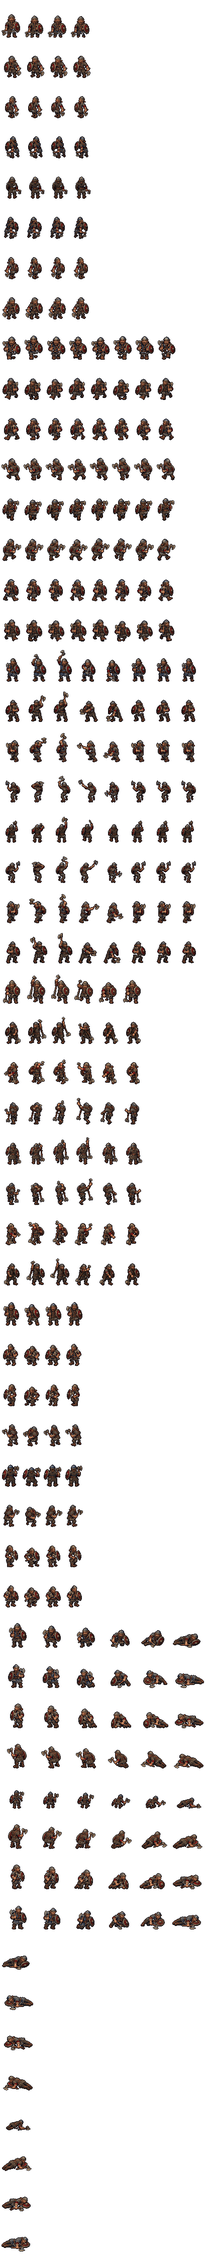
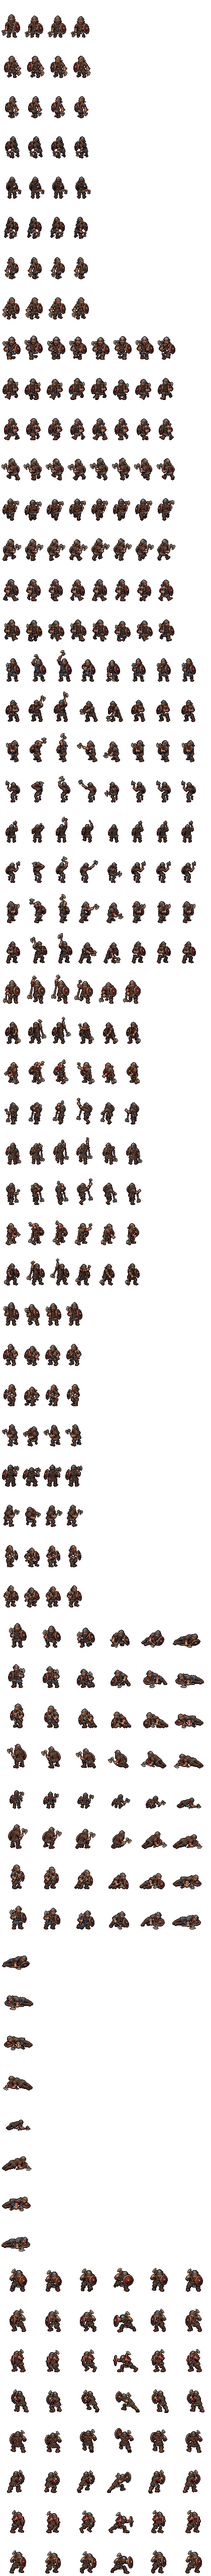
The trooper's Push and the dragger's Net and Hook cut (art-wanted 103, 106; ART-167, ART-168)
tools/pike-wall-sheet.py now takes a sheet's pages as a list: trooper_p2
gains `push` 6 (ART-167; his tall 42, any-colour crown: his helmet is
steel) and dragger_p2 `net` 6 and `hook` 6 (ART-168), release 3 each,
all eight facings, SW W NW mirrored. tools/trooper-fight-sheet.py says to
run it after.

The reader, for these pages: a small light detached piece (at most 32x64
page px) is a printed label, dropped (ART-168's S Hook kept an "OK" and a
"4"); a frame whose crown-to-boots runs 15% past its row's median stands
on its crown + the median (S Net 4's net thrown below his boots; S Hook 3
and N Net 4 a pike end below them). S Hook 3's pike tip clips at the
cell's foot.

`net` and `hook` are marked held: js/show.js passes them by (the show
throws no net); js/sprites.js S.anim still serves them, so the seat
nets-1125's F.throwNet and F.hook play them by those names unchanged.

Eyes: eyes-trooper-push-1125b, eyes-dragger-net-hook-1125b (the gallery).
Stamps rebuilt. (cutter-1125b)

His words: "dragger and dwarf push are in, hoping the lady lands before
the art dept ceiling"

diff --git a/deep16/data/sprites.js b/deep16/data/sprites.js
@@ -4558,7 +4558,7 @@
 "source": "drawn by the art desk (HALFWAY-INN-DORAN-COMBAT, 11-05: art-wanted section 35), cut by tools/doran-sheet.py; SW W NW mirrored -- the idle from the art desk's five-view axe idle page (11-06), the walk from its axe walk page (11-10); every fight he is in (deep16/data/foes.js doran)"
 },
 "dragger_p2": {
-"image": "art/dragger_p2.png?v=fc3a91ef3e",
+"image": "art/dragger_p2.png?v=275f24ecc5",
 "fw": 102,
 "fh": 96,
 "ax": 51,
@@ -4649,6 +4649,28 @@
 "frames": 6,
 "fps": 10,
 "release": 3
+},
+"net": {
+"y": 6912,
+"fw": 114,
+"fh": 96,
+"ax": 57,
+"ay": 76,
+"frames": 6,
+"fps": 10,
+"release": 3,
+"held": true
+},
+"hook": {
+"y": 7680,
+"fw": 102,
+"fh": 96,
+"ax": 51,
+"ay": 76,
+"frames": 6,
+"fps": 10,
+"release": 3,
+"held": true
 }
 },
 "name": "Dragger",
@@ -4661,7 +4683,7 @@
 "flinch: NE raises the pike steeply off the idle's angle (the art desk's own \"check the pike angle at the return to Idle\")",
 "prone: the last Fall cel held"
 ],
-"source": "drawn by the art desk (ART-159, 11-24: art-wanted section 95, the Dominion's dragger with the pike in gladiator harness in five views, the thrust and the Pike Rank over the mannequin's human guides), cut by tools/dragger-sheet.py over tools/vivian-sheet.py; SW W NW mirrored -- the pike wall's rows (keepback, shove) drawn by the art desk (ART-166, 11-25: art-wanted 102, the Keep Back from the Pike Rank hold and the shaft's Shove), added by tools/pike-wall-sheet.py"
+"source": "drawn by the art desk (ART-159, 11-24: art-wanted section 95, the Dominion's dragger with the pike in gladiator harness in five views, the thrust and the Pike Rank over the mannequin's human guides), cut by tools/dragger-sheet.py over tools/vivian-sheet.py; SW W NW mirrored -- rows added by tools/pike-wall-sheet.py (keepback, shove, net, hook), drawn by the art desk (ART-166, ART-168, 11-25)"
 },
 "drider_p1": {
 "image": "art/drider_p1.png?v=a0acd18d15",
@@ -9173,7 +9195,7 @@
 "hurt: N falls away from the viewer, the soles nearest the camera (the art desk's own note)",
 "prone: the Fall 6 crop held"
 ],
-"source": "drawn by the art desk (ART-158, 11-24: art-wanted section 94, the Line Guard pikeman, clean-shaven, in five views, the thrust and the Pike Rank over the mannequin's human guides), cut by tools/guard-soldiering-sheet.py over tools/dominion-sheet.py's reader and tools/vivian-sheet.py; SW W NW mirrored -- the pike wall's rows (keepback, shove) drawn by the art desk (ART-166, 11-25: art-wanted 102, the Keep Back from the Pike Rank hold and the shaft's Shove), added by tools/pike-wall-sheet.py"
+"source": "drawn by the art desk (ART-158, 11-24: art-wanted section 94, the Line Guard pikeman, clean-shaven, in five views, the thrust and the Pike Rank over the mannequin's human guides), cut by tools/guard-soldiering-sheet.py over tools/dominion-sheet.py's reader and tools/vivian-sheet.py; SW W NW mirrored -- rows added by tools/pike-wall-sheet.py (keepback, shove), drawn by the art desk (ART-166, 11-25)"
 },
 "guardwoman_p1": {
 "image": "art/guardwoman_p1.png?v=4f92d49145",
@@ -35783,7 +35805,7 @@ true
 "source": "drawn by the art desk (ART-142-GARRISON-PORTRAITS-AND-TOWN, 11-12: art-wanted section 55 block 4, the garrison trooper's town figure in five views), cut by tools/trooper-town-sheet.py over tools/vivian-sheet.py; SW W NW mirrored"
 },
 "trooper_p2": {
-"image": "art/trooper_p2.png?v=870b92b0aa",
+"image": "art/trooper_p2.png?v=239efcbd94",
 "fw": 46,
 "fh": 80,
 "ax": 23,
@@ -35854,6 +35876,16 @@ true
 "ay": 74,
 "frames": 1,
 "fps": 1
+},
+"push": {
+"y": 4480,
+"fw": 70,
+"fh": 80,
+"ax": 35,
+"ay": 74,
+"frames": 6,
+"fps": 10,
+"release": 3
 }
 },
 "name": "Trooper",
@@ -35861,7 +35893,7 @@ true
 "throw: some wrist loops pass behind the arm or belt, and the release hand overlaps the small axe in projection (the art desk's own note)",
 "attack: the mannequin's guard holds the axe higher than the low combat Idle -- the Idle to Attack and Attack to Idle joins (the art desk's own note); passing steps close in the rear walks"
 ],
-"source": "drawn by the art desk (ART-142-TROOPER-COMBAT, 11-12: art-wanted section 55 block 2, the garrison trooper with battleaxe and shield in five views, the Attack and Throw over the mannequin's guides), cut by tools/trooper-fight-sheet.py over tools/vivian-sheet.py; SW W NW mirrored"
+"source": "drawn by the art desk (ART-142-TROOPER-COMBAT, 11-12: art-wanted section 55 block 2, the garrison trooper with battleaxe and shield in five views, the Attack and Throw over the mannequin's guides), cut by tools/trooper-fight-sheet.py over tools/vivian-sheet.py; SW W NW mirrored -- rows added by tools/pike-wall-sheet.py (push), drawn by the art desk (ART-167, 11-25)"
 },
 "trooperpike_p2": {
 "image": "art/trooperpike_p2.png?v=6eda2f2610",

diff --git a/js/eyes.js b/js/eyes.js
@@ -452,6 +452,14 @@
       obj: 'In the gallery, step the two pikemen\'s new KEEPBACK and SHOVE rows: the point out, the shaft driven crosswise. Do they read?',
       url: 'deep16/?gallery&shelf=creatures&rows=dragger_p2,guardpike_p2&beside&lvl=3&fresh=1125pw',
       look: 'NEW, the art desk\'s ART-166 (art-wanted 102, your "outbox the Keep Back and any other rows we need for those two"): two rows on each pikeman\'s own sheet, all eight facings (SW, W, NW the mirrors). KEEPBACK (6, from the Pike Rank hold: the point out high, then low on frame 4, back to the hold) plays when his KEEP BACK reaction fires in a pike wall. SHOVE (6: the shaft turned crosswise, a step on 3, driven on 4) plays for any Shove he makes -- the dragger\'s patrol drill is shove, grapple and drag. Left the Dominion\'s dragger, right Dunmore\'s clean-shaven Line Guard pikeman, each beside his own idle at one height. The art desk\'s own notes: S Keep Back foreshortens the shaft, and the N step is subtle. Judge: do the point out and the crosswise shove read, and is each the same man as his idle?' },
+    'eyes-trooper-push-1125b': { pri: 2, group: G2, title: 'THE GARRISON TROOPER\'S SHIELD WALL PUSH: the red shield driven, the axe cocked, all eight facings (11-25, later)', pt: 'the story build lane, 2026-11-25 (the cutter, cutter-1125b; tools/pike-wall-sheet.py; deep16/art/trooper_p2; js/features.js THE PUSH)',
+      obj: 'In the gallery, step the garrison trooper\'s new PUSH row: the red shield driven on frame 4, the axe held cocked. Does it read?',
+      url: 'deep16/?gallery&shelf=creatures&rows=trooper_p2&lvl=3&fresh=1125tp',
+      look: 'NEW, the art desk\'s ART-167 (art-wanted 103, your "52 - yes"): PUSH 6 on the dwarven garrison trooper\'s own sheet, all eight facings (SW, W, NW the mirrors) -- shields set, a coil, the drive off the rear leg, the SHOVE on frame 4 (the head tucked behind the rim), recover, shields set. It plays when his shield wall pushes, for the Trooper and the File Leader both, as Halldor\'s does; the wall\'s move gives the step. Each page sized so frame 1 stands his idle\'s 42. Judge: does the shove read beside his idle, and is it the same dwarf?' },
+    'eyes-dragger-net-hook-1125b': { pri: 2, group: G2, title: 'THE DRAGGER\'S NET AND HOOK: the net thrown and the pike\'s hook pulled, all eight facings (11-25, later)', pt: 'the story build lane, 2026-11-25 (the cutter, cutter-1125b; tools/pike-wall-sheet.py; deep16/art/dragger_p2; js/features.js F.throwNet, F.hook -- the seat nets-1125)',
+      obj: 'In the gallery, step the dragger\'s new NET and HOOK rows: the net flung on frame 4, the hook pulled. Do they read?',
+      url: 'deep16/?gallery&shelf=creatures&rows=dragger_p2&lvl=3&fresh=1125nh',
+      look: 'NEW, the art desk\'s ART-168 (art-wanted 106): two rows on the Dominion dragger\'s own sheet, all eight facings (SW, W, NW the mirrors). NET (6: the net gathered at his hip, swung, flung open on frame 4, the pike kept upright in the other hand) plays when he throws his net; HOOK (6: the pike\'s hook set behind a leg and pulled on frame 4) plays when he hooks a foe down. Neither shows in a fight on its own yet: the nets seat\'s rules throw and hook. In S the net flies toward you, below his boots, and the hook\'s pike runs past them (a tip clipped at the cell\'s foot on frame 3). Judge: do the throw and the pull read, and is he the same man as his idle?' },
     'eyes-dominion-portraits-1125': { pri: 2, group: G2, title: 'THE SERGEANT\'S AND THE MENDER\'S TALKING PORTRAITS: the idles you approved, ART-163 and ART-164 (11-25)', pt: 'the story build lane, 2026-11-25 (the cutter, cutter-1125; tools/portrait-sheet.py; deep16/art/pt_dmsergeant, pt_dmmender)',
       obj: 'Look at the sergeant\'s and the mender\'s talking portraits, six frames each. Are these the faces you approved?',
       url: 'deep16/?portraits&who=dmsergeant,dmmender&lvl=3&fresh=1125pt',

diff --git a/deep16/index.html b/deep16/index.html
@@ -113,7 +113,7 @@
 <script src="js/art.js?v=e1ce4cf012"></script>
 <script src="data/cavern.js?v=647c1a184a"></script>
 <script src="data/maps.js?v=d33fd7d069"></script>
-<script src="data/sprites.js?v=1f4806df87"></script>
+<script src="data/sprites.js?v=6beee89207"></script>
 <script src="js/sprites.js?v=6d0752045d"></script>
 <script src="js/save.js?v=afbd9d9582"></script>
 <script src="data/spells.js?v=5245b60266"></script>
@@ -230,7 +230,7 @@
 <script src="js/parade.js?v=d6c6aba1dc"></script>
 <script src="js/ripplesfight.js?v=6b8c16eeac"></script>
 <script src="js/blackegg.js?v=aecca221cc"></script>
-<script src="../js/eyes.js?v=0d057fdd6b"></script>
+<script src="../js/eyes.js?v=ccf32e36da"></script>
 <script src="../js/tour.js?v=bd4c5f3949"></script>
 <script src="js/onegallery.js?v=b8317cb4a0"></script>
 <script src="js/situations16.js?v=cc81728a85"></script>

diff --git a/tools/pike-wall-sheet.py b/tools/pike-wall-sheet.py
@@ -31,35 +31,70 @@ _sp = importlib.util.spec_from_file_location('mender_sheet', os.path.join(ROOT, 
 MS = importlib.util.module_from_spec(_sp); _sp.loader.exec_module(MS)
 sys.argv = _old
 DG, VS = MS.DG, MS.VS
-SRC, BATCH = 'dragger', '2026-11-25-ART-166-PIKE-WALL'
 FACE = {'S': 0, 'SE': 7, 'E': 6, 'NE': 5, 'N': 4}
 MIRROR = {1: 7, 2: 6, 3: 5}
-ADD = [('keepback', 10, 3), ('shove', 10, 3)]      # (row, fps, release)
-TALL = 52        # (crown row to boots: both sheets' TALL, tools/dragger-sheet.py and tools/guard-soldiering-sheet.py)
-FIG = {'dragger_p2': dict(page='DRAGGER', avoid=['fire'], bgtol=20, crown=20, steel=True),
+ROWS = {'keepback': (10, 3), 'shove': (10, 3), 'net': (10, 3), 'hook': (10, 3), 'push': (10, 3)}   # (row: fps, release -- each page's printed 4)
+PIKE = ('dragger', '2026-11-25-ART-166-PIKE-WALL')
+HELD = {'net', 'hook'}   # (marked `held`: js/show.js SH.wanted passes them by -- the show throws no net; js/sprites.js S.anim still serves them, so the
+                         #  seat nets-1125's F.throwNet and F.hook play them where they land. A cutter may drop this once a show stages the net)
+FIG = {'dragger_p2': dict(avoid=['fire'], bgtol=20, crown=20, steel=True, tall=52, pages=[
+           PIKE + ('sources/ART-166_DRAGGER_HEAD-*_%s.png', ['keepback', 'shove']),
+           ('dragger', '2026-11-25-ART-168-NET-HOOK', 'source/ART-168-H0*-P01-%s-source.png', ['net', 'hook'])]),   # (ART-168, art-wanted 106: js/features.js
+           # F.throwNet plays a sheet's `net`, F.hook's shove its `hook` -- the seat nets-1125's code)
            # (tools/dragger-sheet.py's: his crown the first run CROWN wide that is not steel -- a pike's head is steel. 20, not his 30: ART-166 draws him at
            #  ~0.25 game px a page px against ART-159's ~0.1, so his curls' top runs narrower; at 12 the raised pike's wooden shaft in N read as his crown)
-       'guardpike_p2': dict(page='LINE-GUARD-PIKEMAN', avoid=['red', 'fire', 'violet'], bgtol=20, crown=30, steel=False)}
+       'guardpike_p2': dict(avoid=['red', 'fire', 'violet'], bgtol=20, crown=30, steel=False, tall=52, pages=[
+           PIKE + ('sources/ART-166_LINE-GUARD-PIKEMAN_HEAD-*_%s.png', ['keepback', 'shove'])]),
            # (tools/guard-soldiering-sheet.py's: his crown the first run CROWN wide of any colour -- his kettle hat is steel, which the steel test passes
            #  over (his SE read at the brim and stood 2 px tall); 30 page px is wider than a pike's head or shaft here)
+       'trooper_p2': dict(avoid=['fire'], bgtol=30, crown=30, steel=False, tall=42, pages=[
+           ('trooper', '2026-11-25-ART-167-PUSH', 'source/ART-167-HEAD-*-PAGE-1-%s-PUSH.png', ['push'])])}
+           # (ART-167, art-wanted 103: tools/trooper-fight-sheet.py's tall 42 and avoid; his helmet steel, so any colour; js/features.js THE PUSH plays it)
+TALL = None      # (each sheet's own: crown row to boots, as its tool cut its idle)
 
 
 def read(fig):
-    """{(view, row): [(page, mask, box, ground, crown-to-boots), x6]}"""
+    """{(view, row): [(page, mask, box, ground, crown-to-boots), x6]}, {(view, row): k} -- one scale a page: frame 1 of its tallest row at the sheet's tall"""
     F = FIG[fig]; DG.BGTOL = F['bgtol']; DG.CROWN = F['crown']
-    out, notes = {}, {}
-    for v in FACE:
-        fn = glob.glob(os.path.join(VS.pix.SRC, SRC, BATCH, 'sources', 'ART-166_%s_HEAD-*_%s.png' % (F['page'], v)))
-        assert len(fn) == 1, (fig, v, fn)
-        a, got, nt = MS.read_page(fn[0], 12)
-        notes[os.path.basename(fn[0])] = nt
-        for i in range(12):
-            d, bx = got[i]; x0, y0, x1, y1 = bx
-            sa, sm = a[y0:y1, x0:x1], d[y0:y1, x0:x1]
-            g = y0 + DG.ground(sa, sm) + 1
-            hc = DG.head(sa, sm)[0] if F['steel'] else anycrown(sm, F['crown'])
-            out.setdefault((v, ADD[i // 6][0]), []).append((a, d, bx, g, g - y0 - hc))
-    return out, notes
+    out, notes, ks = {}, {}, {}
+    for src, batch, pat, rows in F['pages']:
+        for v in FACE:
+            fn = glob.glob(os.path.join(VS.pix.SRC, src, batch, pat % v))
+            assert len(fn) == 1, (fig, v, fn)
+            a, got, nt = MS.read_page(fn[0], 6 * len(rows))
+            notes[os.path.basename(fn[0])] = nt
+            for i in range(6 * len(rows)):
+                d, bx = unlabel(a, got[i][0], notes[os.path.basename(fn[0])], i)
+                x0, y0, x1, y1 = bx
+                sa, sm = a[y0:y1, x0:x1], d[y0:y1, x0:x1]
+                g = y0 + DG.ground(sa, sm) + 1
+                hc = DG.head(sa, sm)[0] if F['steel'] else anycrown(sm, F['crown'])
+                out.setdefault((v, rows[i // 6]), []).append((a, d, bx, g, g - y0 - hc))
+            for r in rows:                     # (a thing below his feet -- ART-168's S Net 4, the open net thrown toward us, the figure drawn higher for it:
+                fs = out[(v, r)]; med = float(np.median([f[4] for f in fs]))   #  a frame past its row's median crown-to-boots by 15% stands on its crown + the median)
+                for j, (a, d, bx, g, h) in enumerate(fs):
+                    if h > 1.15 * med:
+                        fs[j] = (a, d, bx, int(round(g - h + med)), int(round(med)))
+                        notes[os.path.basename(fn[0])].append('re-footed: %s %d, %d page px up' % (r, j + 1, int(round(h - med))))
+            k = F['tall'] / float(max(out[(v, r)][0][4] for r in rows))
+            for r in rows:
+                ks[(v, r)] = k
+    return out, notes, ks
+
+
+def unlabel(a, d, notes, i):
+    """(mask, box): a frame with its small light detached pieces dropped -- ART-168's printed "OK" and frame numbers pass mender-sheet's text test (its S
+    Hook kept an "OK" and a "4"); a piece at most 32 x 64 page px, at least 85 at its darkest channel on the mean (the "OK" with its dark rim reads 92, a figure 50 to 60), never the frame's biggest"""
+    lab, n = ndimage.label(d, structure=np.ones((3, 3)))
+    if n > 1:
+        big = 1 + int(np.argmax(ndimage.sum(d, lab, range(1, n + 1))))
+        for j, sl in enumerate(ndimage.find_objects(lab), 1):
+            pc = lab[sl] == j
+            if j != big and sl[0].stop - sl[0].start <= 32 and sl[1].stop - sl[1].start <= 64 and a[sl][pc].min(1).mean() >= 85:
+                d = d.copy(); d[sl] &= ~pc
+                notes.append('label dropped: frame %d, %d px at %s' % (i + 1, int(pc.sum()), (sl[1].start, sl[0].start, sl[1].stop, sl[0].stop)))
+    ys, xs = np.where(d)
+    return d, (int(xs.min()), int(ys.min()), int(xs.max()) + 1, int(ys.max()) + 1)
 
 
 def anycrown(m, w):
@@ -96,8 +131,9 @@ def cut1x(a, d, bx, g, k, F):
     return o, cx, int(round((g - w[1] - sl[0].start) * k)) + 1
 
 
-def add_rows(fig, R, check=False):
+def add_rows(fig, R, K, check=False):
     F = FIG[fig]
+    ADD = [(r,) + ROWS[r] for pg in F['pages'] for r in pg[3]]
     ART = os.path.join(ROOT, 'deep16', 'art')
     base = np.asarray(Image.open(os.path.join(ART, fig + '.png')).convert('RGBA')).copy()
     meta = json.load(open(os.path.join(ART, fig + '.json')))
@@ -111,7 +147,7 @@ def add_rows(fig, R, check=False):
         cells = {}
         for v, f in FACE.items():
             fs = R[(v, row)]
-            k = TALL / float(max(R[(v, r)][0][4] for r, _, _ in ADD))   # (one page, one scale: the taller of the two rows' frame 1 -- the pikeman's E Keep Back
+            k = K[(v, row)]                # (read(): one page, one scale -- the taller of its rows' frame 1 at the sheet's tall: the pikeman's E Keep Back
                                            #  read its crown 20 page px low, 5 px over his idle at 1x); frame 1 stands his sheet's TALL, crown row to boots -- each sheet cut its idle to it. Not idle_height():
                                            #  in N (the dragger) and NE and N (the pikeman) the idle's pike head stands above him, read at 1x as his crown)
             cells[f] = [cut1x(a, d, bx, g, k, F) for a, d, bx, g, h in fs]
@@ -132,6 +168,8 @@ def add_rows(fig, R, check=False):
                 cell = blk[f * FH + max(0, dy):f * FH + max(0, dy) + hh, i * fw + max(0, dx):i * fw + max(0, dx) + ww]
                 on = sub[..., 3] > 0; cell[on] = sub[on]
         meta['anims'][row] = {'y': int(y0), 'fw': fw, 'fh': FH, 'ax': ax, 'ay': AY, 'frames': n, 'fps': fps, 'release': rel}
+        if row in HELD:
+            meta['anims'][row]['held'] = True
         if clip:
             print('  %s %s clipped top or bottom at the cell: %s' % (fig, row, ', '.join(clip)))
         blocks.append((row, blk)); y0 += 8 * FH
@@ -139,9 +177,9 @@ def add_rows(fig, R, check=False):
     sheet = np.zeros((y0, W, 4), np.uint8); sheet[:base.shape[0], :base.shape[1]] = base; y = base.shape[0]
     for _, b in blocks:
         sheet[y:y + b.shape[0], :b.shape[1]] = b; y += b.shape[0]
-    meta['source'] = meta.get('source', '').split(' -- the pike wall\'s rows')[0] + (
-        ' -- the pike wall\'s rows (keepback, shove) drawn by the art desk (ART-166, 11-25: art-wanted 102, the Keep Back from the Pike Rank hold and the shaft\'s '
-        'Shove), added by tools/pike-wall-sheet.py')
+    meta['source'] = meta.get('source', '').split(' -- the pike wall\'s rows')[0].split(' -- rows added by tools/pike-wall-sheet.py')[0] + (
+        ' -- rows added by tools/pike-wall-sheet.py (%s), drawn by the art desk (%s, 11-25)' % (', '.join(r for r, _, _ in ADD),
+        ', '.join('ART-' + pg[1].split('-ART-')[1].split('-')[0] for pg in F['pages'])))
     Image.fromarray(sheet, 'RGBA').save(os.path.join(ART, fig + '.png'), optimize=True)
     json.dump(meta, open(os.path.join(ART, fig + '.json'), 'w'), indent=1)
     print('  %s: %dx%d, + %s; scales %s' % (fig, sheet.shape[1], sheet.shape[0], ', '.join('%s %d@%dpx' % (r, meta['anims'][r]['frames'], meta['anims'][r]['fw']) for r, _, _ in ADD), '; '.join(notes)))
@@ -157,7 +195,7 @@ def add_rows(fig, R, check=False):
 
 if __name__ == '__main__':
     for fig in FIG:
-        R, NT = read(fig)
+        R, NT, K = read(fig)
         if 'frames' in sys.argv:
             for (v, rw), fs in sorted(R.items()):
                 for i, (a, d, bx, g, h) in enumerate(fs):
@@ -165,4 +203,4 @@ if __name__ == '__main__':
             for fn, nt in sorted(NT.items()):
                 print(fn, '|', '; '.join(nt)[:400])
             continue
-        add_rows(fig, R, 'check' in sys.argv)
+        add_rows(fig, R, K, 'check' in sys.argv)

diff --git a/tools/trooper-fight-sheet.py b/tools/trooper-fight-sheet.py
@@ -3,6 +3,8 @@
     python tools/trooper-fight-sheet.py            (writes deep16/art/trooper_p2.png/.json)
     python tools/trooper-fight-sheet.py check      (also the review sheet: every row of every facing at 3x)
 
+    THEN python tools/pike-wall-sheet.py: this writes trooper_p2 whole, and the shield wall's `push` (ART-167, 11-25, art-wanted 103) is added by that tool.
+
 Asked in art-wanted section 55, block 2 (11-12, the lanes desk, on his word: "go on the level and kit for pyros folk, with an art request first to fix this
 portrait (that better not be a battle axe, let's hope not and request one) - and then the combat posings we'll need"); cut 11-13 by the garrison cutter on
 the lanes desk's relay. The art desk's ART-142-TROOPER-COMBAT, sorted out of Fresh to deep16/_src/ART-142-TROOPER-COMBAT/ (the zip beside it): the generic
